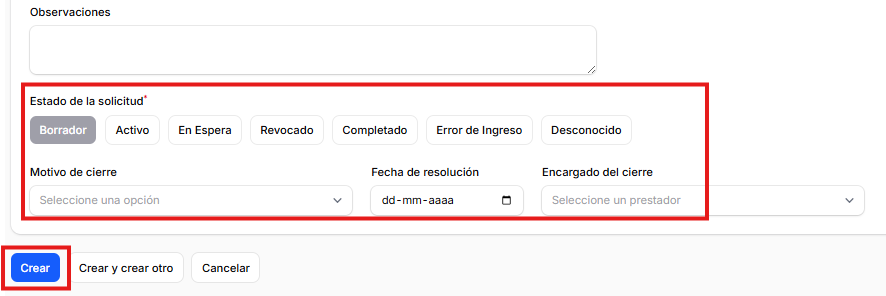
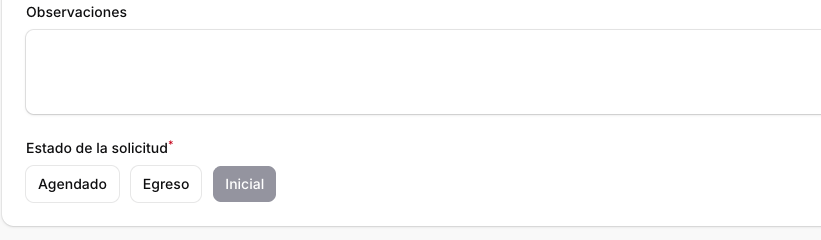
solicitudes edit

diff --git a/docs/01-menu-principal/02-solicitudes.md b/docs/01-menu-principal/02-solicitudes.md
@@ -16,7 +16,7 @@ Luego, en pantalla a continuación, se deberán completar los campos para genera
 
 ![Ejemplo imagen](../../assets/images/Estado_de_la_solicitud.png)
 
-Los estados de la solicitud van a depender del proceso que se este realizando, en primera instancia documento es guardado con estado "borrador", luego, misma solicitud puede ser editada para ir realizando gestión a la misma. Por último se debe presionar botón Crear.
+El campo obligatorio "Estado de la solicitud" permite elegir entre **Agendado**, **Egreso** e **Inicial**. Una solicitud nueva se crea en estado "Inicial"; luego la misma solicitud puede ser editada para ir realizando gestión a la misma. Por último se debe presionar botón Crear.
 
 Al presionar botón Crear, se generará un número de solicitud, el cuál será asignado a la creación realizada.
 
@@ -28,7 +28,17 @@ Al presionar botón Crear, se generará un número de solicitud, el cuál será 
 
 ## Estado de la solicitud
 Al momento de realizar gestión a las solicitudes emitidas, sistema permite cambiar de estado cada solicitud realizada, esto sirve de apoyo a la monitorización.
-Para poder continuar con el siguiente proceso de agendamiento prequirúrgico, es necesario seleccionar check "Listo para prequirúrgico".
-Sin este paso, no se visualizará paciente a la hora de realizar búsqueda de su solicitud.
 
-![Ejemplo imagen](../../assets/images/Gestion_solicitud.png)
+En el campo **Estado de la solicitud** (obligatorio, se identifica con asterisco), ubicado bajo el campo "Observaciones", se selecciona uno de los siguientes estados. El estado elegido se destaca con color:
+
+- **Inicial**: Estado en el que queda la solicitud al ser creada, antes de su agendamiento. Se muestra en gris cuando está seleccionado.
+- **Agendado**: La solicitud ya cuenta con agenda.
+- **Egreso**: La solicitud ha finalizado. Se muestra en verde cuando está seleccionado. Al elegir este estado se despliegan tres campos obligatorios adicionales:
+  - **Motivo de cierre**: Lista desplegable para seleccionar el motivo ("Seleccione una opción").
+  - **Fecha de resolución**: Fecha en formato dd-mm-yyyy.
+  - **Encargado del cierre**: Lista desplegable para seleccionar el prestador responsable ("Seleccione un prestador").
+
+![Estado Inicial](../../assets/images/Estado_de_la_solicitud.png)
+
+![Estado Egreso](../../assets/images/Estado_egreso.png)
+
